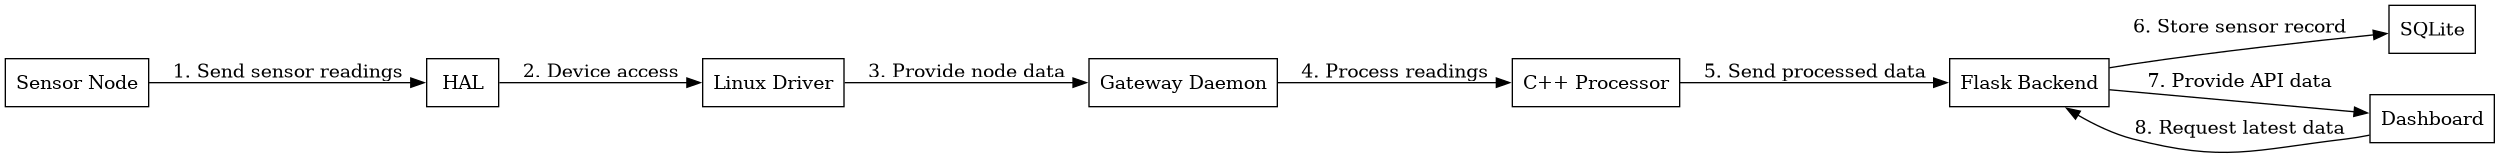
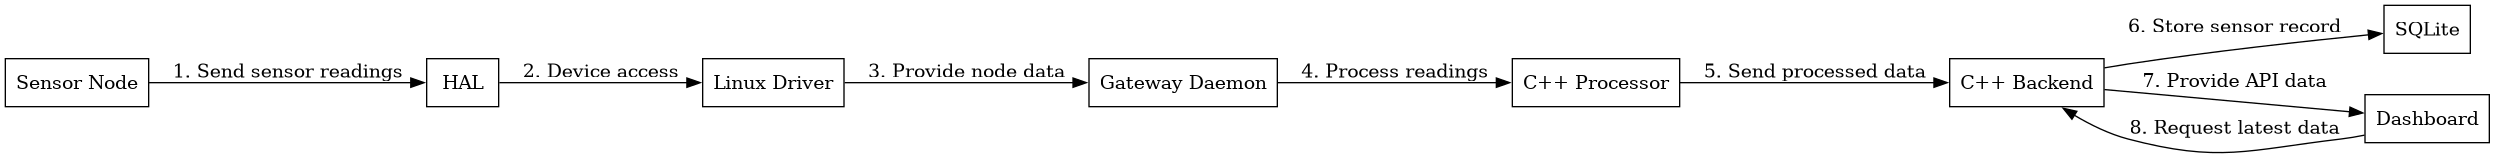
Update final documentation and diagrams

diff --git a/docs/stage6/final_implementation.md b/docs/stage6/final_implementation.md
@@ -30,7 +30,7 @@ Gateway Daemon
 C++ Sensor Processing
         |
         v
-Flask Backend
+C++ Backend
         |
         v
 SQLite Database
